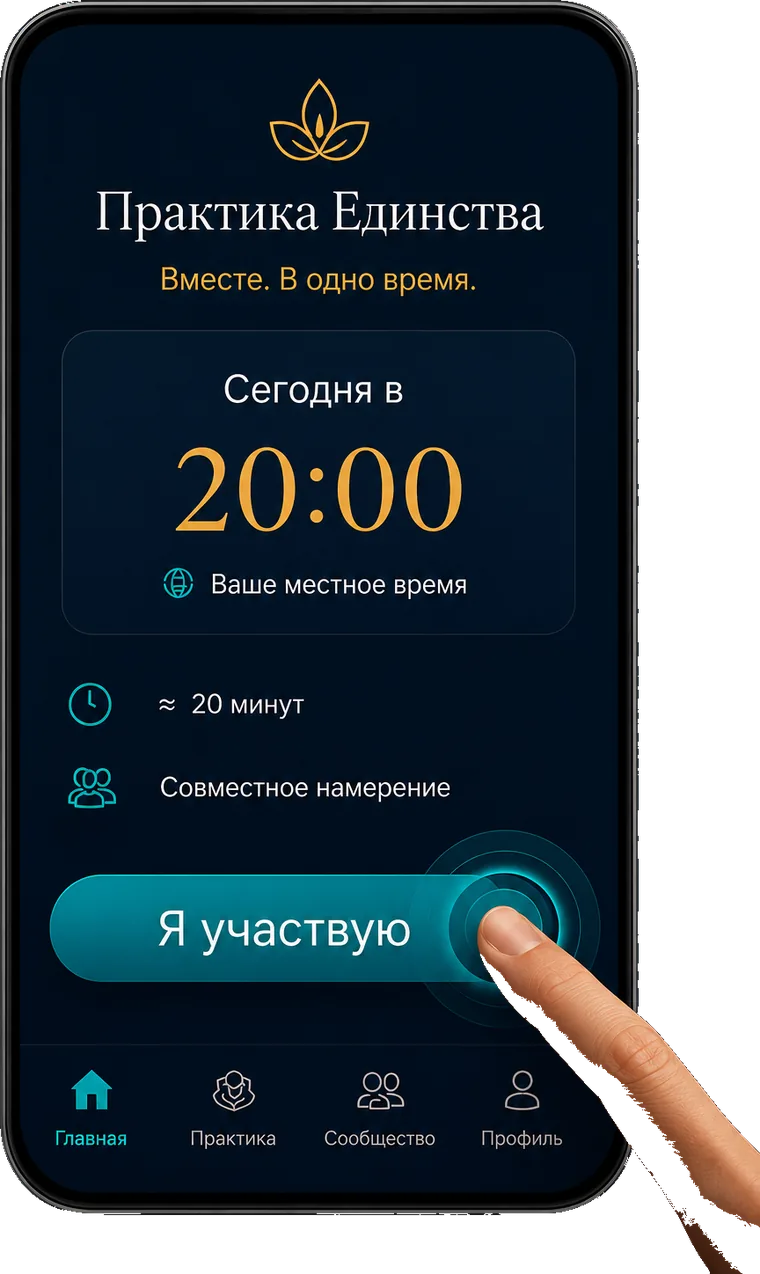
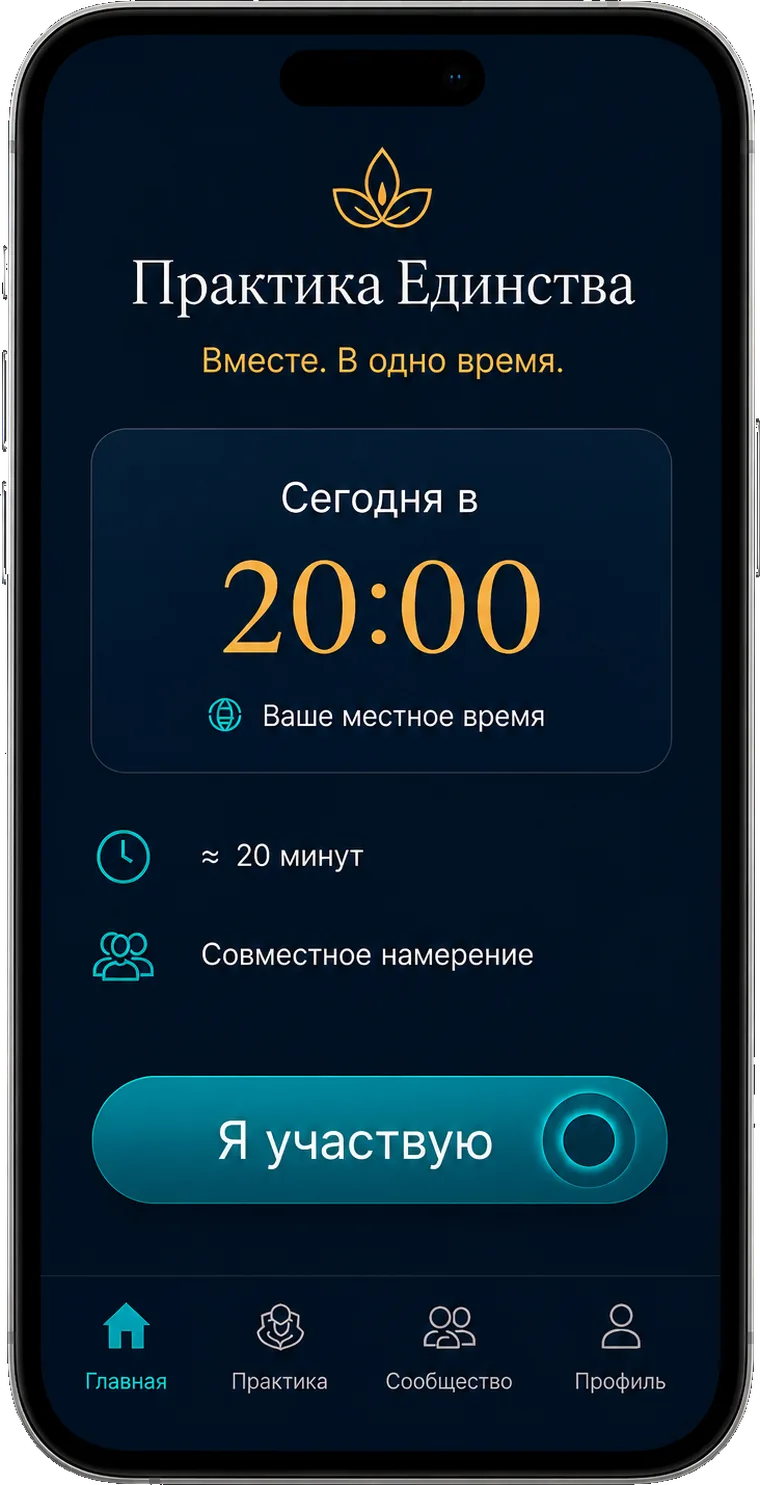
Webseite: mobile mit bildern verion5 26.06.26

diff --git a/index.html b/index.html
@@ -419,7 +419,7 @@ body[data-lang=es] .rv-name.rv-ru{display:none;} body[data-lang=es] .rv-loc.rv-r
     </div>
   </div>
   <div class="hero-phone-wrap">
-    <img class="hero-phone-img" src="hero-phone.webp" width="760" height="1274" alt="Unity Practice App" decoding="async">
+    <img class="hero-phone-img" src="hero-phone.webp" width="760" height="1485" alt="Unity Practice App" decoding="async">
   </div>
   </div>
 </section>
